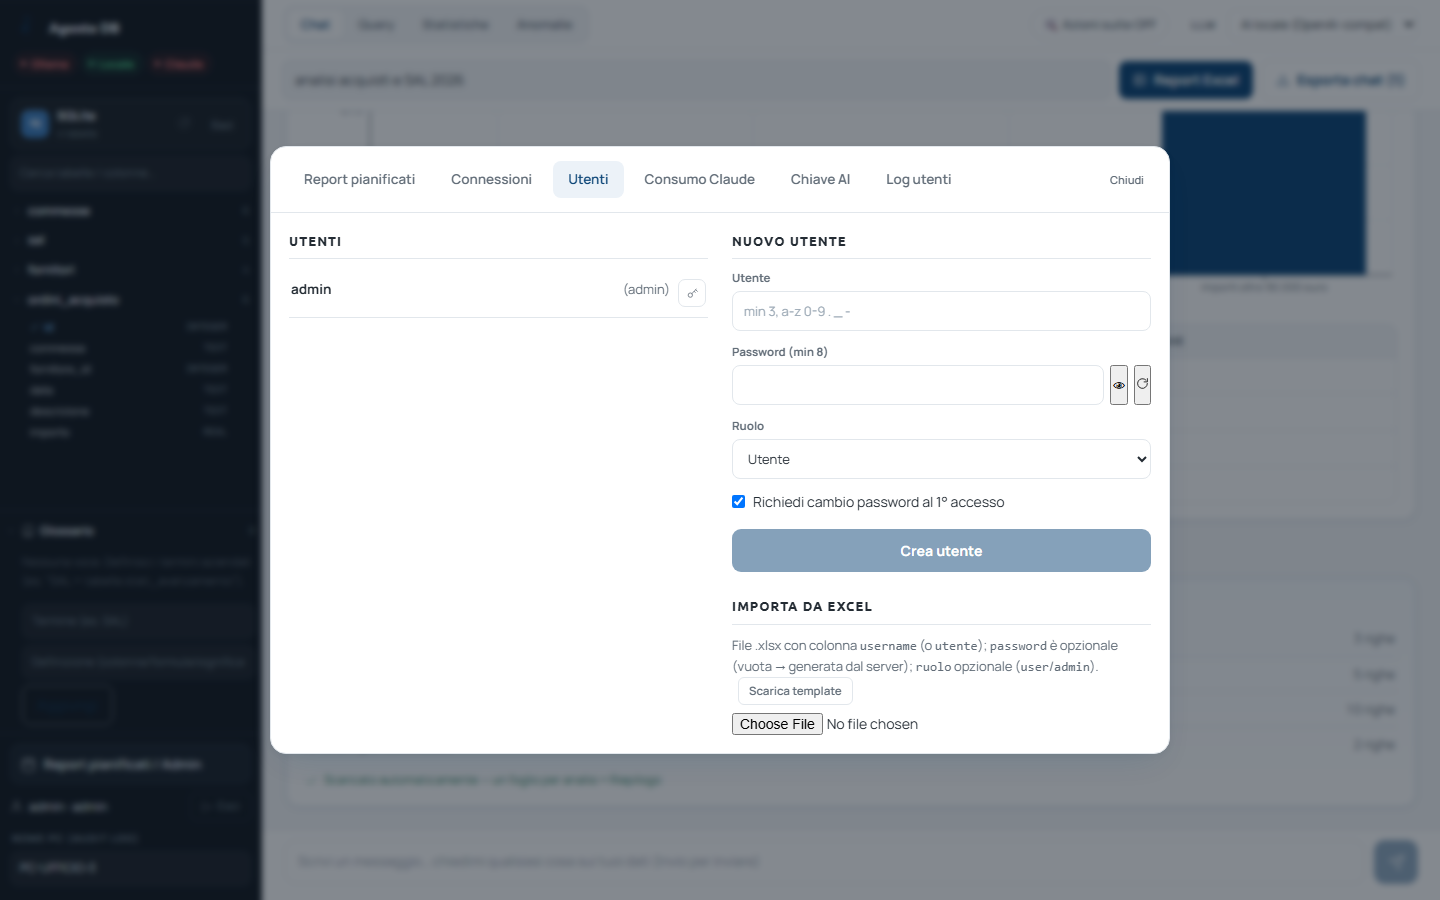
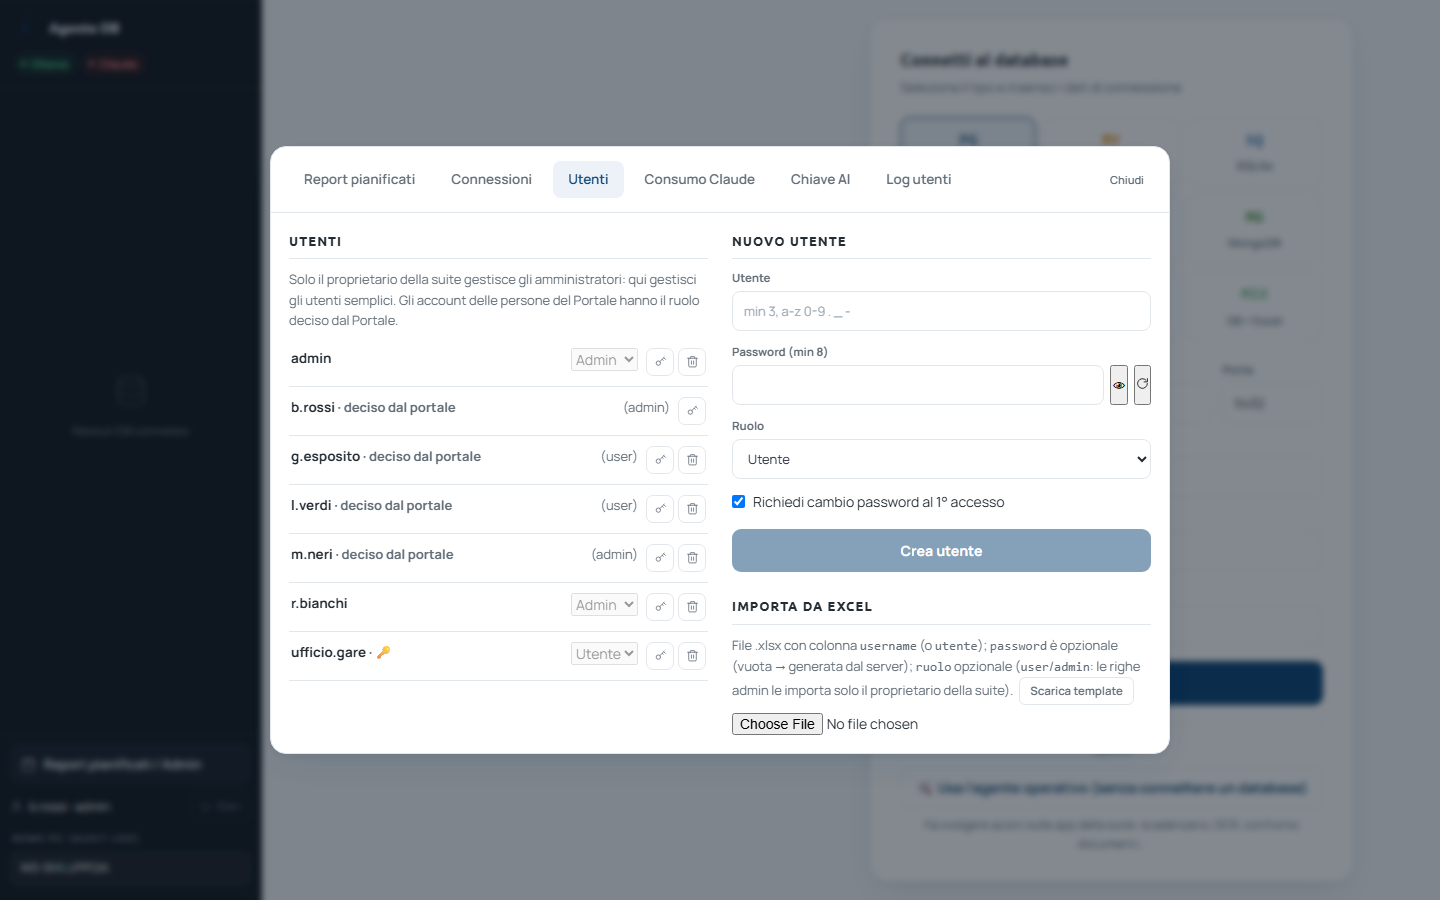
docs(analista-dati): guida e README sugli amministratori decisi dal portale
Capitoli 01-accesso e 07-pannello-admin della guida e README: admin dato e tolto dal portale,
login a mano solo sul proprio account, admin gestiti solo dal proprietario della suite.
Immagine 19-admin-utenti rifatta con dati inventati (vista di un admin non proprietario).

diff --git a/analista-dati/README.md b/analista-dati/README.md
@@ -139,7 +139,8 @@ Oltre a interrogare i database, l'agente può **compiere azioni sulle app sorell
 
 - **Rete chiusa di default**: il backend ascolta solo su `127.0.0.1` (`BIND_HOST`). Per usarlo in LAN imposta `BIND_HOST=0.0.0.0` (l'accesso è protetto dal login multi-utente).
 - **Login multi-utente**: password scrypt, **token di sessione hashati** (sha256) nel DB — un leak di `app.db` non espone sessioni riusabili. Cookie HttpOnly.
-- **Ingresso dal Portale senza seconda password**: chi arriva dal Portale Suite entra nell'account con il suo stesso username, creato la prima volta (admin solo se il portale lo dice admin dell'agente). Un **amministratore del portale** (ruolo admin) è admin anche qui: un account nato `user` viene promosso al suo ingresso, sessioni aperte comprese (regola della suite del 09/11/2026; solo promozione, l'admin da regola IP del portale non basta). `sessioneDalPortale` in [server/auth.ts](server/auth.ts), montato in `server.ts` dopo il gate SSO. La sessione ricorda la persona del portale (`sessions.portale`): se nel portale entra un altro sullo stesso browser, si chiude. Il login a mano resta (account vecchi, `AUTH_ENABLED`, gate spento).
+- **Ingresso dal Portale senza seconda password**: chi arriva dal Portale Suite entra nell'account con il suo stesso username, creato la prima volta. `sessioneDalPortale` in [server/auth.ts](server/auth.ts), montato in `server.ts` dopo il gate SSO. La sessione ricorda la persona del portale (`sessions.portale`): se nel portale entra un altro sullo stesso browser, si chiude. Il login a mano resta (account vecchi, `AUTH_ENABLED`, gate spento).
+- **Profilo del portale valido anche qui** (11/11/2026): l'account di una persona del portale (`users.portale = 1`) è admin **se e solo se** è amministratore del portale (ruolo `admin`), dato e tolto a ogni passaggio dal gate, sessioni aperte comprese; l'admin da regola IP del portale non basta, nemmeno alla creazione. Col portale aperto il login a mano vale **solo per il proprio account** (stesso username; un altro account → 403 senza toccare il blocco anti brute-force), e una sessione di un altro account aperta prima viene chiusa. Gli **amministratori** li crea, promuove, declassa ed elimina (e ne azzera la password) solo il **proprietario della suite** (`proprietario` in `/api/verify` del portale): `puoGestireAdmin` / `vietatoSuUtenti` in [server/auth.ts](server/auth.ts) sulle rotte `/api/users` (403 *Solo il proprietario…*; ruolo di un account del portale → 409, si cambia nel portale). `GET /api/users` dice alla pagina Utenti `gestioneAdmin` e `sso`. Con `COSEDIL_SSO=off` (agente fuori dalla suite) gli admin dell'agente gestiscono tutto come prima; con il portale giù e `COSEDIL_SSO_FAIL=open` niente gestione degli admin.
 - **Anti brute-force**: dopo `LOGIN_MAX_FAILS` tentativi errati l'utente è bloccato per `LOGIN_LOCK_MIN` minuti.
 - **Cambio password forzato**: l'admin di default (`admin`/`cambiami0`) **deve** cambiare password al primo accesso prima di poter operare. Gli utenti creati da admin o importati partono anch'essi con **cambio password obbligatorio** al primo accesso. Se il server è **esposto in rete** con la password di default ancora attiva, l'avvio è **rifiutato**.
 - **`trust proxy` sicuro**: di default NON si fida di `X-Forwarded-For` (spoofabile → falsifica IP di audit e bypassa il rate-limit). Attiva `TRUST_PROXY` solo dietro un reverse-proxy fidato.

diff --git a/analista-dati/docs/guida/07-pannello-admin.md b/analista-dati/docs/guida/07-pannello-admin.md
@@ -45,6 +45,19 @@ Per crearne una: compila il modulo nella schermata delle sorgenti e premi
 - **Importa da Excel**: un file con la colonna `username` (o `utente`), e
   facoltative `password` e `ruolo`; **Scarica template** dà il modello.
 
+**Amministratori e Portale.** Il profilo del Portale vale anche qui:
+
+- gli **amministratori** li crea, promuove, declassa ed elimina solo il **proprietario della
+  suite**. Gli altri amministratori gestiscono gli utenti semplici: per loro, sugli account
+  admin, il ruolo, la chiave e il cestino sono spenti, e nel modulo *Amministratore* non si
+  può scegliere (in alto c'è la spiegazione, come nell'immagine). Le righe `admin` di un file
+  Excel le importa solo il proprietario: per gli altri finiscono fra gli errori dell'import;
+- gli account con **· deciso dal portale** sono di persone del Portale: il loro ruolo segue il
+  Portale, dato e tolto (chi non è più amministratore del Portale torna utente anche qui al
+  primo passaggio). Si cambia nel Portale, in *Amministrazione > Utenti*, non da questa pagina.
+- Se Analista Dati è installato da solo, senza Portale, gli amministratori gestiscono tutto
+  come prima.
+
 ## 7.4 Consumo Claude e Chiave AI
 
 - **Consumo Claude**: quanto ha usato Claude ogni utente negli ultimi 30

diff --git a/analista-dati/docs/guida/01-accesso.md b/analista-dati/docs/guida/01-accesso.md
@@ -7,8 +7,13 @@
 
 Dal Portale apri *Analista Dati*: entri **direttamente**, con il tuo utente del Portale e senza un'altra
 password. La prima volta l'account di Analista Dati si crea da solo, con lo stesso nome utente del Portale.
-Se nel Portale sei **amministratore**, lo sei anche qui (anche se il tuo account di Analista Dati era nato
-come utente semplice): un amministratore del Portale vale come amministratore in tutti i programmi.
+Il tuo profilo del Portale vale anche qui: se nel Portale sei **amministratore**, lo sei anche qui (anche se
+il tuo account di Analista Dati era nato come utente semplice); se nel Portale non lo sei più, qui torni
+utente semplice. L'amministratore dato al tuo PC da una regola per indirizzo IP del Portale non basta.
+
+Col Portale aperto entri solo nel **tuo** account: se nella pagina **Accedi** scrivi un altro utente, Analista
+Dati risponde *"Sei entrato nel Portale come … : qui puoi usare solo il tuo account"*. Per usare un altro
+account esci dal Portale e rientra con quell'utente.
 
 La pagina **Accedi** compare solo se apri Analista Dati senza passare dal Portale (o con il Portale spento):
 
